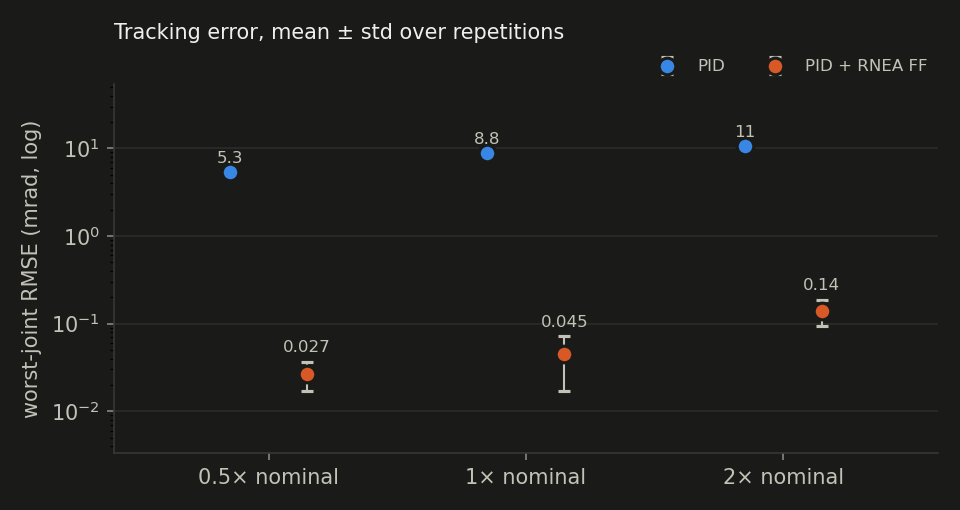
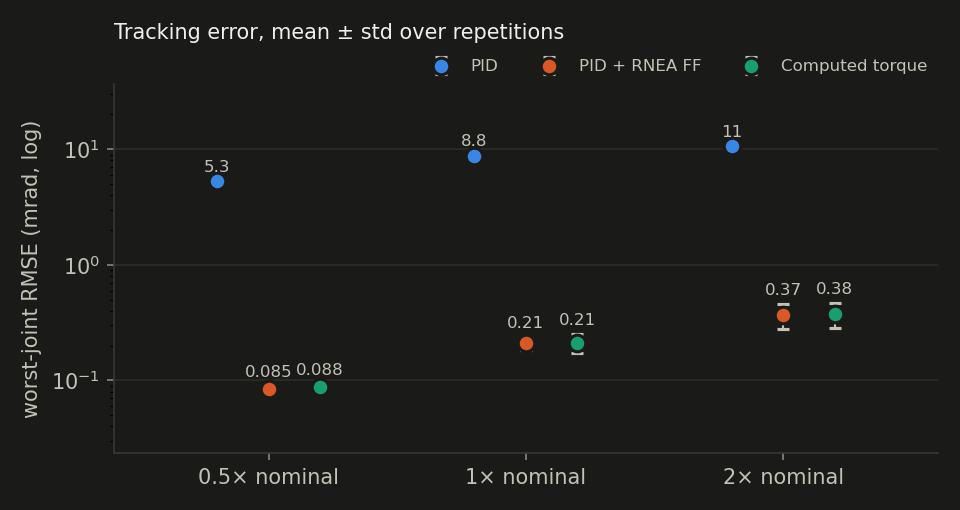
data: replace the tracking table with the three-column rerun (pid, pid_ff, CT)
results/tracking.csv is the approved 3 speeds x {PID, PID + RNEA FF, computed
torque} x 3 reps run, Pinocchio backend, made alone under the heavy, build and
gazebo locks at 6bf35f4 (src/scripts identical to the computed-torque
commits). At 1x the worst-joint RMSE is 8.81 / 0.21 / 0.21 mrad.

The PID + FF rows are several times higher than v0.1's. That is not a v0.2
regression: the v0.1 code itself, rebuilt in a worktree and re-run the same
night under the same locks, gives 0.24 mrad at 1x instead of its published
0.04, with no package changed in between (A/B table in NOTES.md). The README
and results.md say so and that the two tables are not comparable row by row;
the "Where it fails" CPU-load item now covers it, and the computed-torque item
is corrected: on a quiet machine CT matches PID + FF, it only fell behind
under contention.

The README intro, modes table and next steps also cover computed torque, the
KDL option and the jog controller.

diff --git a/scripts/make_results.py b/scripts/make_results.py
@@ -466,6 +466,10 @@ def results_markdown(track_rows, hg_rows, timing_rows=()) -> tuple[str, str]:
             "`~/joint_trajectory`. The error is the controller's own `q_des − q` at 500 Hz,",
             "from trajectory start to 0.5 s after the last",
             'reference motion. "Worst joint" = the joint with the largest RMSE in that run.',
+            "These rows replace v0.1's two-column table. Its PID + RNEA FF rows were several",
+            "times lower; re-running the v0.1 code itself on 29 Oct reproduced this table's",
+            "level, not its own, with no package changed in between (NOTES.md has the A/B), so",
+            "the two tables should not be compared row by row.",
             "Whole-benchmark reruns reproduce the PID-only rows closely; the feedforward rows sit",
             "near the noise floor and vary more between reruns than the within-run std shows",
             "(the run log is in NOTES.md).",

diff --git a/README.md b/README.md
@@ -4,8 +4,8 @@
 
 ![UR5e switching between trajectory tracking and gravity-compensated hand guiding in Gazebo](docs/assets/hero.gif)
 
-This is a set of ros2_control effort controllers for a simulated UR5e (ROS 2 Lyrical, Gazebo Jetty): joint-space PID tracking with Pinocchio RNEA feedforward, and gravity-compensated hand guiding with a runtime payload model. These are controllers I shipped on production 6-axis arms, rebuilt in public on a UR5e, with every dynamics term computed from the URDF instead of hand-tuned. <!-- headline:begin -->
-At 1× nominal speed the RNEA feedforward brings the worst-joint tracking RMSE to 0.04 ± 0.03 mrad (PID alone: 8.83 ± 0.01 mrad), and in hand guiding a 1 kg payload-model error costs the operator 9.81 ± 0.00 N of vertical force to hold the arm still (Δm·g = 9.81 N) and, let go, carries the TCP 201 ± 4 mm in one second.
+This is a set of ros2_control effort controllers for a simulated UR5e (ROS 2 Lyrical, Gazebo Jetty): joint-space tracking with PID, PID + RNEA feedforward or computed torque on Pinocchio or KDL dynamics, gravity-compensated hand guiding with a runtime payload model, and damped-least-squares TCP jogging. These are controllers I shipped on production 6-axis arms, rebuilt in public on a UR5e, with every dynamics term computed from the URDF instead of hand-tuned. <!-- headline:begin -->
+At 1× nominal speed the RNEA feedforward brings the worst-joint tracking RMSE to 0.21 ± 0.03 mrad (PID alone: 8.81 ± 0.01 mrad, computed torque 0.21 ± 0.04 mrad), and in hand guiding a 1 kg payload-model error costs the operator 9.81 ± 0.00 N of vertical force to hold the arm still (Δm·g = 9.81 N) and, let go, carries the TCP 201 ± 4 mm in one second.
 <!-- headline:end -->
 
 **Language split:** C++17 for everything in the 500 Hz control loop (controllers, the Pinocchio
@@ -41,8 +41,9 @@ figures and GIFs: `scripts/regenerate_all.sh`.
 
 | Mode | Controller | Claims | What it shows |
 |---|---|---|---|
-| `track` | `PidFfTrajectoryController` | `*/effort` | PID + anti-windup + RNEA feedforward on trapezoidal re-profiled trajectories |
+| `track` | `PidFfTrajectoryController` | `*/effort` | Trapezoidal re-profiled trajectories with one of three laws: PID with anti-windup, PID + RNEA feedforward, or computed torque (`control_law`) |
 | `handguide` | `GravityCompHandGuidingController` | `*/effort` | g(q) + C(q,q̇)q̇ − Dq̇, runtime payload, joint-limit repulsion, speed cap |
+| `jog` | `TcpJogController` | `*/effort` | TCP twist → damped least squares with manipulability-scheduled damping, speed/acceleration/position limits, deadman |
 
 ![track mode](docs/assets/mode_track.gif) ![hand-guiding mode](docs/assets/mode_handguide.gif)
 
@@ -56,11 +57,11 @@ and hand-guiding numbers were produced with the Pinocchio backend (the default).
 <!-- results:begin -->
 **Joint-space tracking** (PidFfTrajectoryController, 3-segment 6-joint path; worst joint per repetition, then mean ± std over repetitions):
 
-| Speed (× nominal) | PID: worst-joint RMSE (mrad) | PID + RNEA FF: worst-joint RMSE (mrad) | PID: worst max \|e\| (mrad) | PID + RNEA FF: worst max \|e\| (mrad) | Regenerate with |
-|---|---|---|---|---|---|
-| 0.5 | 5.35 ± 0.01 | 0.03 ± 0.01 | 11.90 ± 0.03 | 0.59 ± 0.12 | `scripts/bench_tracking.sh` |
-| 1 | 8.83 ± 0.01 | 0.04 ± 0.03 | 20.59 ± 0.03 | 1.22 ± 0.47 | `scripts/bench_tracking.sh` |
-| 2 | 10.70 ± 0.04 | 0.14 ± 0.05 | 26.07 ± 0.11 | 1.88 ± 0.01 | `scripts/bench_tracking.sh` |
+| Speed (× nominal) | PID: worst-joint RMSE (mrad) | PID + RNEA FF: worst-joint RMSE (mrad) | Computed torque: worst-joint RMSE (mrad) | PID: worst max \|e\| (mrad) | PID + RNEA FF: worst max \|e\| (mrad) | Computed torque: worst max \|e\| (mrad) | Regenerate with |
+|---|---|---|---|---|---|---|---|
+| 0.5 | 5.34 ± 0.00 | 0.08 ± 0.00 | 0.09 ± 0.01 | 12.03 ± 0.14 | 0.50 ± 0.00 | 0.60 ± 0.23 | `scripts/bench_tracking.sh` |
+| 1 | 8.81 ± 0.01 | 0.21 ± 0.03 | 0.21 ± 0.04 | 20.67 ± 0.04 | 0.94 ± 0.07 | 0.84 ± 0.07 | `scripts/bench_tracking.sh` |
+| 2 | 10.68 ± 0.04 | 0.37 ± 0.09 | 0.38 ± 0.09 | 26.45 ± 0.36 | 2.83 ± 1.00 | 2.52 ± 1.47 | `scripts/bench_tracking.sh` |
 
 **Hand guiding with a wrong payload model** (GravityCompHandGuidingController, model payload fixed, actual Gazebo payload varied; mean ± std over repetitions):
 
@@ -126,21 +127,31 @@ that means new solvers) and `update()` only swaps a pointer.
 5. **Without feedforward, PID sags first and tracks late.** The integrator has to build up the
    gravity torque before it can hold the arm, and during motion the inertial and Coriolis torques
    show up as tracking error; compare the PID-only and PID + RNEA columns above.
-6. **The wrist_3 loop is at the edge of what a 2 ms explicit loop allows.** Its joint-space
+6. **Computed torque buys nothing over PID + feedforward here, and is more fragile.** With exact
+   models and the same nominal bandwidth the two track about equally well on a quiet machine
+   (table above). Under CPU contention computed torque fell further behind (a check made while
+   other sessions compiled, NOTES.md). It feeds the measured state back through the whole
+   inverse dynamics, so lag in that state reaches the torque directly. On a real arm, where the
+   model is wrong, that trade would need measuring again.
+7. **The wrist_3 loop is at the edge of what a 2 ms explicit loop allows.** Its joint-space
    inertia is tiny (the last link plus whatever is bolted to the flange), so K_d·Δt/M must stay
    below one; its gains are tiny too, and a payload changes its dynamics more than any other
    joint's.
-7. **Gazebo's effort interface is kinder than a real arm's.** No joint friction, no gearbox
+8. **Gazebo's effort interface is kinder than a real arm's.** No joint friction, no gearbox
    compliance, no motor current limits or torque ripple, perfect torque tracking, and an exactly
    known model: the feedforward numbers here are an upper bound on what a real UR5e would give.
-8. **The feedforward tracking numbers depend on what else the machine is doing.** Run next to
+9. **The feedforward tracking numbers depend on what else the machine is doing.** Run next to
    another session's benchmark on the same laptop, the RNEA-feedforward rows came out clearly
    worse than when run alone, while the PID-only and hand-guiding rows did not move (the run
-   log, with the numbers, is in NOTES.md). I have not pinned down the cause; the controller runs inside the
-   physics step, so the suspect is the benchmark driver's wall-clock timing rather than the
-   control law. `scripts/regenerate_all.sh` therefore refuses to start while a simulator,
-   build, pip install or training run is active, and the published rows were made alone.
-9. **Trajectories stop at every waypoint, and pre-emption is abrupt.** The trapezoidal
+   log, with the numbers, is in NOTES.md). It is not only other benchmarks: the v0.1 table
+   showed PID + feedforward several times lower than the one above, and re-running the v0.1
+   code itself on 29 Oct reproduced the new level, not its own, with no package changed in
+   between. I have not pinned down the cause; gz_ros2_control runs the controller manager
+   inside the physics step, so the suspect is the ROS side (when commands are adopted, what is
+   recorded) rather than the control law. `scripts/regenerate_all.sh` refuses to start while a
+   simulator, build, pip install or training run is active, and the published rows were made
+   alone; treat the feedforward rows as a level, not a precise number.
+10. **Trajectories stop at every waypoint, and pre-emption is abrupt.** The trapezoidal
    re-profiling is rest-to-rest per segment (no blending), which is simple and exactly testable
    but slower than necessary. A new trajectory pre-empts the running one from the current
    desired position at zero velocity, so pre-empting at cruise speed steps the desired velocity
@@ -162,8 +173,8 @@ model error costs.
 
 ## What I'd do next
 
-1. Add the `TcpJogController` (damped least squares with manipulability-scheduled damping) and
-   measure its command-to-motion latency.
+1. Publish `bench_jog`'s command-to-motion latency for the `TcpJogController`, and add a
+   singularity-approach benchmark (damped vs undamped joint speeds).
 2. Add the admittance controller on the wrist F/T sensor, i.e. the hand-guiding law that would
    actually run on a real UR over RTDE.
 3. MPC for tracking: it needs a QP solved inside the 2 ms loop (a real-time-safe solver,

diff --git a/docs/results.md b/docs/results.md
@@ -9,11 +9,11 @@ Every number on this page is computed by `scripts/make_results.py` from the CSVs
 
 **Joint-space tracking** (PidFfTrajectoryController, 3-segment 6-joint path; worst joint per repetition, then mean ± std over repetitions):
 
-| Speed (× nominal) | PID: worst-joint RMSE (mrad) | PID + RNEA FF: worst-joint RMSE (mrad) | PID: worst max \|e\| (mrad) | PID + RNEA FF: worst max \|e\| (mrad) | Regenerate with |
-|---|---|---|---|---|---|
-| 0.5 | 5.35 ± 0.01 | 0.03 ± 0.01 | 11.90 ± 0.03 | 0.59 ± 0.12 | `scripts/bench_tracking.sh` |
-| 1 | 8.83 ± 0.01 | 0.04 ± 0.03 | 20.59 ± 0.03 | 1.22 ± 0.47 | `scripts/bench_tracking.sh` |
-| 2 | 10.70 ± 0.04 | 0.14 ± 0.05 | 26.07 ± 0.11 | 1.88 ± 0.01 | `scripts/bench_tracking.sh` |
+| Speed (× nominal) | PID: worst-joint RMSE (mrad) | PID + RNEA FF: worst-joint RMSE (mrad) | Computed torque: worst-joint RMSE (mrad) | PID: worst max \|e\| (mrad) | PID + RNEA FF: worst max \|e\| (mrad) | Computed torque: worst max \|e\| (mrad) | Regenerate with |
+|---|---|---|---|---|---|---|---|
+| 0.5 | 5.34 ± 0.00 | 0.08 ± 0.00 | 0.09 ± 0.01 | 12.03 ± 0.14 | 0.50 ± 0.00 | 0.60 ± 0.23 | `scripts/bench_tracking.sh` |
+| 1 | 8.81 ± 0.01 | 0.21 ± 0.03 | 0.21 ± 0.04 | 20.67 ± 0.04 | 0.94 ± 0.07 | 0.84 ± 0.07 | `scripts/bench_tracking.sh` |
+| 2 | 10.68 ± 0.04 | 0.37 ± 0.09 | 0.38 ± 0.09 | 26.45 ± 0.36 | 2.83 ± 1.00 | 2.52 ± 1.47 | `scripts/bench_tracking.sh` |
 
 **Hand guiding with a wrong payload model** (GravityCompHandGuidingController, model payload fixed, actual Gazebo payload varied; mean ± std over repetitions):
 
@@ -31,7 +31,7 @@ Every number on this page is computed by `scripts/make_results.py` from the CSVs
 
 ## Tracking — details
 
-`results/tracking.csv`: commit `c35e70c82023`, seed 1, physics step 0.001 s, controller update rate 500 Hz, dynamics backend pinocchio; 3 repetitions per condition.
+`results/tracking.csv`: commit `6bf35f463513`, seed 1, physics step 0.001 s, controller update rate 500 Hz, dynamics backend pinocchio; 3 repetitions per condition.
 
 Method: the arm is homed by the tracking controller itself (feedforward on) to a
 seeded random offset (≤ 0.05 rad per joint) from the home pose; for the PID-only
@@ -42,6 +42,10 @@ integral term. A 3-waypoint path (2.5 s per segment at 1×) is sent on
 `~/joint_trajectory`. The error is the controller's own `q_des − q` at 500 Hz,
 from trajectory start to 0.5 s after the last
 reference motion. "Worst joint" = the joint with the largest RMSE in that run.
+These rows replace v0.1's two-column table. Its PID + RNEA FF rows were several
+times lower; re-running the v0.1 code itself on 29 Oct reproduced this table's
+level, not its own, with no package changed in between (NOTES.md has the A/B), so
+the two tables should not be compared row by row.
 Whole-benchmark reruns reproduce the PID-only rows closely; the feedforward rows sit
 near the noise floor and vary more between reruns than the within-run std shows
 (the run log is in NOTES.md).
@@ -52,12 +56,15 @@ Per joint, RMSE / max |e| in mrad, mean ± std over repetitions:
 
 | Speed | Variant | shoulder_pan_joint RMSE / max (mrad) | shoulder_lift_joint RMSE / max (mrad) | elbow_joint RMSE / max (mrad) | wrist_1_joint RMSE / max (mrad) | wrist_2_joint RMSE / max (mrad) | wrist_3_joint RMSE / max (mrad) |
 |---|---|---|---|---|---|---|---|
-| 0.5 | PID | 0.16 ± 0.01 / 0.75 ± 0.14 | 1.00 ± 0.01 / 2.10 ± 0.02 | 0.08 ± 0.00 / 0.32 ± 0.08 | 1.24 ± 0.12 / 3.06 ± 0.34 | 5.35 ± 0.01 / 11.90 ± 0.03 | 0.03 ± 0.01 / 0.53 ± 0.06 |
-| 0.5 | PID + RNEA FF | 0.02 ± 0.01 / 0.46 ± 0.09 | 0.01 ± 0.00 / 0.21 ± 0.13 | 0.01 ± 0.00 / 0.28 ± 0.15 | 0.02 ± 0.00 / 0.34 ± 0.09 | 0.02 ± 0.01 / 0.47 ± 0.10 | 0.03 ± 0.01 / 0.59 ± 0.12 |
-| 1 | PID | 0.88 ± 0.04 / 2.69 ± 0.27 | 1.92 ± 0.01 / 4.04 ± 0.10 | 0.14 ± 0.00 / 0.52 ± 0.03 | 2.03 ± 0.23 / 4.84 ± 0.61 | 8.83 ± 0.01 / 20.59 ± 0.03 | 0.11 ± 0.00 / 1.00 ± 0.15 |
-| 1 | PID + RNEA FF | 0.04 ± 0.02 / 0.93 ± 0.41 | 0.02 ± 0.01 / 0.42 ± 0.43 | 0.02 ± 0.02 / 0.53 ± 0.51 | 0.03 ± 0.01 / 0.69 ± 0.28 | 0.04 ± 0.02 / 0.96 ± 0.45 | 0.04 ± 0.03 / 1.22 ± 0.47 |
-| 2 | PID | 4.60 ± 0.20 / 11.26 ± 0.87 | 3.65 ± 0.01 / 7.68 ± 0.14 | 0.41 ± 0.02 / 1.04 ± 0.06 | 2.85 ± 0.32 / 6.44 ± 0.95 | 10.70 ± 0.04 / 26.07 ± 0.11 | 0.50 ± 0.01 / 2.55 ± 0.84 |
-| 2 | PID + RNEA FF | 0.12 ± 0.03 / 1.45 ± 0.08 | 0.04 ± 0.01 / 0.48 ± 0.02 | 0.05 ± 0.01 / 0.60 ± 0.02 | 0.08 ± 0.02 / 1.07 ± 0.02 | 0.12 ± 0.04 / 1.51 ± 0.10 | 0.14 ± 0.05 / 1.88 ± 0.01 |
+| 0.5 | PID | 0.18 ± 0.02 / 0.96 ± 0.07 | 1.00 ± 0.01 / 2.07 ± 0.03 | 0.09 ± 0.01 / 0.27 ± 0.01 | 1.23 ± 0.12 / 3.13 ± 0.38 | 5.34 ± 0.00 / 12.03 ± 0.14 | 0.10 ± 0.03 / 0.53 ± 0.04 |
+| 0.5 | PID + RNEA FF | 0.06 ± 0.00 / 0.36 ± 0.01 | 0.02 ± 0.00 / 0.13 ± 0.01 | 0.03 ± 0.00 / 0.16 ± 0.02 | 0.05 ± 0.00 / 0.28 ± 0.00 | 0.07 ± 0.00 / 0.39 ± 0.01 | 0.08 ± 0.00 / 0.50 ± 0.00 |
+| 0.5 | Computed torque | 0.07 ± 0.00 / 0.45 ± 0.18 | 0.02 ± 0.00 / 0.12 ± 0.00 | 0.03 ± 0.00 / 0.15 ± 0.00 | 0.05 ± 0.00 / 0.34 ± 0.13 | 0.07 ± 0.00 / 0.43 ± 0.17 | 0.09 ± 0.01 / 0.60 ± 0.23 |
+| 1 | PID | 0.90 ± 0.04 / 3.13 ± 0.06 | 1.92 ± 0.01 / 4.16 ± 0.04 | 0.16 ± 0.01 / 0.51 ± 0.02 | 2.02 ± 0.22 / 4.92 ± 0.59 | 8.81 ± 0.01 / 20.67 ± 0.04 | 0.22 ± 0.02 / 1.56 ± 0.38 |
+| 1 | PID + RNEA FF | 0.16 ± 0.02 / 0.64 ± 0.03 | 0.05 ± 0.01 / 0.23 ± 0.01 | 0.06 ± 0.01 / 0.29 ± 0.01 | 0.12 ± 0.01 / 0.51 ± 0.03 | 0.16 ± 0.02 / 0.72 ± 0.08 | 0.21 ± 0.03 / 0.94 ± 0.07 |
+| 1 | Computed torque | 0.16 ± 0.03 / 0.62 ± 0.05 | 0.05 ± 0.01 / 0.27 ± 0.11 | 0.07 ± 0.01 / 0.34 ± 0.14 | 0.12 ± 0.02 / 0.48 ± 0.02 | 0.16 ± 0.03 / 0.59 ± 0.04 | 0.21 ± 0.04 / 0.84 ± 0.07 |
+| 2 | PID | 4.63 ± 0.21 / 11.62 ± 0.47 | 3.67 ± 0.01 / 7.81 ± 0.07 | 0.43 ± 0.01 / 1.07 ± 0.07 | 2.84 ± 0.31 / 6.68 ± 1.13 | 10.68 ± 0.04 / 26.45 ± 0.36 | 0.63 ± 0.05 / 3.57 ± 0.10 |
+| 2 | PID + RNEA FF | 0.28 ± 0.07 / 2.08 ± 0.83 | 0.09 ± 0.03 / 0.45 ± 0.05 | 0.11 ± 0.03 / 0.57 ± 0.06 | 0.21 ± 0.05 / 1.56 ± 0.58 | 0.29 ± 0.08 / 2.22 ± 0.47 | 0.37 ± 0.09 / 2.83 ± 1.00 |
+| 2 | Computed torque | 0.29 ± 0.07 / 1.90 ± 1.09 | 0.10 ± 0.02 / 0.63 ± 0.25 | 0.12 ± 0.02 / 0.80 ± 0.31 | 0.21 ± 0.05 / 1.43 ± 0.83 | 0.29 ± 0.07 / 1.80 ± 1.13 | 0.38 ± 0.09 / 2.52 ± 1.47 |
 
 ## Hand guiding — details
 
